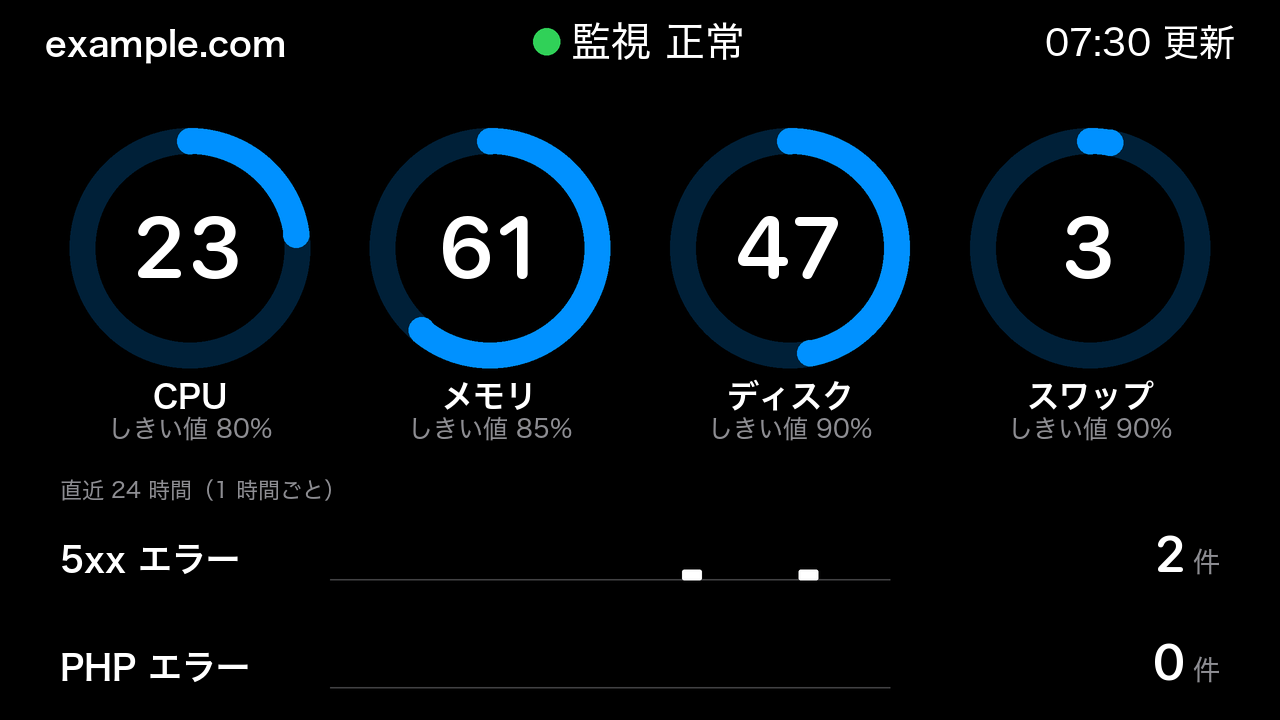
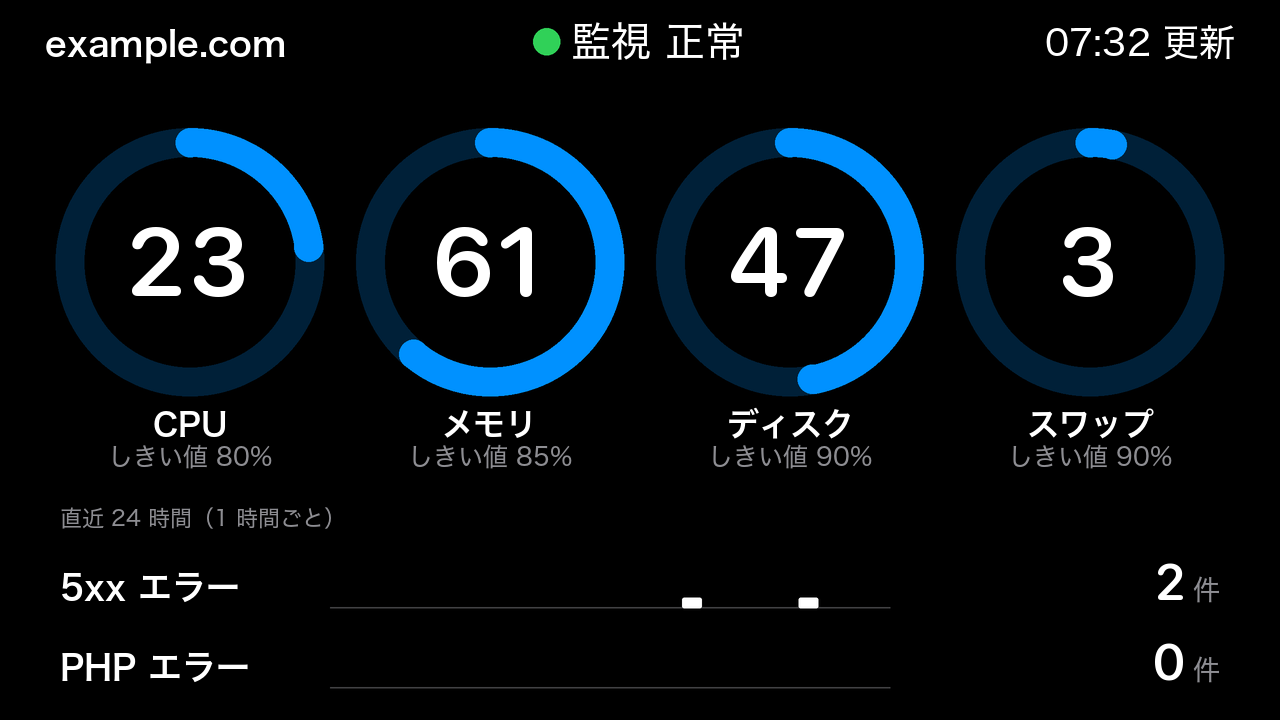
feat(monitor): 5.2 インチの件数の行の間を詰め、その分リングを大きくする
件数の行の高さ 108→80、リングを外径 240→268 px・数字 86→97 px にした（ユーザーの指示。docs/handover.md §4-26）。

diff --git a/claude_usage_display/monitor_screen.py b/claude_usage_display/monitor_screen.py
@@ -145,10 +145,12 @@ LANDSCAPE_LARGE = replace(
     # 小見出しから 13 px、しきい値の字と「直近 24 時間」の字の間は約 35 px
     # 続けて「サーバー」の小見出しを消し、リングの上端を 140→128 px（異常の 2 行の帯の下端 121.5 px の下）に上げて、
     # 外径 228→240 px・数字 81→86 px にした（同日、ユーザーの指示）。名前・しきい値の位置は変えていない
-    ring=(0, _px(248), _px(120), _px(26)), label=(0, _px(408), "ms", 14), number=(0, _px(278), 38, 0, True),
-    threshold=(0, _px(438), "ms", 11), dividers=(),
-    headings=((_px(60), _px(498), "直近 24 時間（1 時間ごと）", 10, SMALL_WEIGHT, "ls"),),
-    counter_rows=_CounterRows(top=_px(504), height=_px(108), left=_px(60), right=_px(1220), baseline=_px(68),
+    # 続けて件数の行の間の罫線を消し（2026-11-04）、行の高さを 108→80 に詰めた分で、リングを外径 240→268 px・
+    # 太さ 26→29 px・数字 86→97 px にした（同日、ユーザーの指示）。リングの上端 128 px と画面の下の余白 32 px は変えていない
+    ring=(0, _px(262), _px(134), _px(29)), label=(0, _px(436), "ms", 14), number=(0, _px(296), 43, 0, True),
+    threshold=(0, _px(466), "ms", 11), dividers=(),
+    headings=((_px(60), _px(526), "直近 24 時間（1 時間ごと）", 10, SMALL_WEIGHT, "ls"),),
+    counter_rows=_CounterRows(top=_px(532), height=_px(80), left=_px(60), right=_px(1220), baseline=_px(68),
                               spark=(_px(330), _px(560), _px(52), _px(76)), label_size=15, number_size=22,
                               unit_size=12))
 

diff --git a/tests/test_monitor_screen.py b/tests/test_monitor_screen.py
@@ -107,7 +107,8 @@ class MonitorScreenTest(unittest.TestCase):
         _, cy, radius, width = large.ring
         xs = [x for x, _ in large.cells]
         self.assertEqual(len(xs), 4)
-        self.assertTrue(all(b - a > 2 * radius + 20 for a, b in zip(xs, xs[1:])))
+        # 隣のリングとの間は 5.2 インチで 30 px 以上（2026-11-04 にリングを外径 268 px にして 32 px）
+        self.assertTrue(all((b - a - 2 * radius) * large.k >= 30 for a, b in zip(xs, xs[1:])))
         # リングとしきい値の字は「直近 24 時間」の小見出しの上に収まる（上下のまとまりの間の罫線は 2026-11-03 に消した）
         self.assertEqual(large.dividers, ())
         caption_x, caption_y, _caption, caption_size, _w, _a = large.headings[-1]  # 「直近 24 時間」

diff --git a/docs/handover.md b/docs/handover.md
@@ -522,6 +522,7 @@ scripts/uninstall-launch-agent.sh                                 # 自動起動
   - Claude: 段の上端を 84・398 → 76・412、下の行の基準線を 290→284 にし、5時間の段と週次の段の間を 18→30 px（3.5 インチの画素で測った）に広げた。画面の下の余白は 11→8 px
   - Mac mini（横置き）: リングの左端を見出しの左端（20）にそろえ、リングと名前の間を 9→7、左の列の文字と右の列のリングの間を 18→12 に詰めて、リングを半径 52→56（外径 104→112 px）・太さ 11→12・数字 40→42 にした。下の段を 182→176 に上げた（上下の段のリングの間 20・下の余白 18 px）。5.2 インチの画面は変わらないことを確かめた
 - **5.2 インチの 5xx エラーと PHP エラーの行の間の罫線を消した**（2026-11-04、ユーザーの指示「5 インチの 5xx エラー、PHP エラーの間の罫線不要」）。件数の行の区切り線を描く処理を外した（件数の行は 5.2 インチの配置だけが持つ）。テスト `test_no_line_between_the_counter_rows`
+- **続けて行の間を詰め、その分リングを大きくした**（同日、ユーザーの指示）。件数の行の高さを 108→80（行の中身の間 56→28 px）、上端を 504→532 にし、リングを外径 240→268 px・太さ 26→29 px・数字 86→97 px に、名前・しきい値の基準線を 408・438 → 436・466 にした。リングの上端 128 px・しきい値と「直近 24 時間」の間 39 px・画面の下の余白 32 px は変えていない（画素で測った）。隣のリングとの間は 32 px、両端のリングと画面の端の間は 56 px
 
 ## 5. 残っている作業（上から順に）
 
